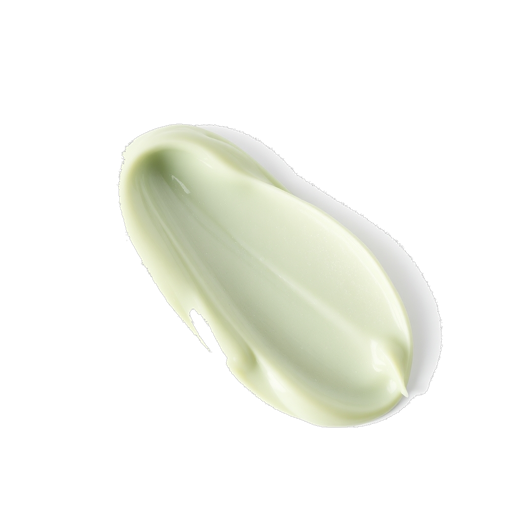
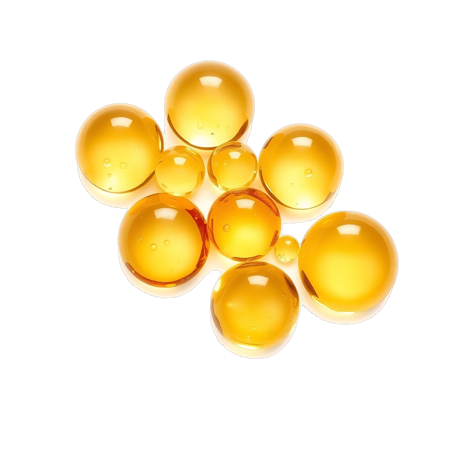
Deploy etymologie redesign mockup

Changed region(s): [[0.1522, 0.1217, 0.8826, 0.8217]]

diff --git a/brands/etymologie/fx.js b/brands/etymologie/fx.js
@@ -1,9 +1,7 @@
 /* redesign-mockup motion — dependency-free.
-   1) scroll-reveal: elements with .reveal rise + fade + un-rotateX into place
-      as they enter the viewport (all devices). Siblings stagger.
-   2) float parallax: elements with .float[data-speed] drift as you scroll
-      (desktop only). Pairs with the .float / @keyframes bob CSS.
-   Respects prefers-reduced-motion. */
+   scroll-reveal: elements with .reveal rise + fade + un-rotateX into place as they
+   enter the viewport (all devices). Siblings stagger. Respects prefers-reduced-motion.
+   (Floating .float elements are intentionally STATIC — no parallax/bob.) */
 (function () {
   var reduce = window.matchMedia('(prefers-reduced-motion:reduce)').matches;
 
@@ -30,31 +28,6 @@
     }
   }
 
-  /* ---- float parallax (desktop only) ---- */
-  if (reduce || window.matchMedia('(max-width:1000px)').matches) return;
-  var floats = [].slice.call(document.querySelectorAll('.float'));
-  if (!floats.length) return;
-  function base() {
-    var sy = window.pageYOffset || 0;
-    floats.forEach(function (f) {
-      var r = f.getBoundingClientRect();
-      f._b = r.top + r.height / 2 + sy;
-    });
-  }
-  function clamp(v, a, b) { return v < a ? a : v > b ? b : v; }
-  var ticking = false;
-  function update() {
-    var sy = window.pageYOffset || 0, vh = window.innerHeight;
-    floats.forEach(function (f) {
-      var rel = clamp((f._b - sy - vh / 2) / vh, -1.3, 1.3);
-      var sp = parseFloat(f.getAttribute('data-speed')) || 40;
-      f.style.transform = 'translateY(' + (rel * sp).toFixed(1) + 'px)';
-    });
-    ticking = false;
-  }
-  window.addEventListener('scroll', function () {
-    if (!ticking) { requestAnimationFrame(update); ticking = true; }
-  }, { passive: true });
-  window.addEventListener('resize', function () { base(); update(); });
-  base(); update();
+  /* floating elements are STATIC (Bruno's preference) — no parallax, no bob.
+     They keep a fixed rotation via CSS (.float img { transform: rotate(var(--rot)) }). */
 })();

diff --git a/brands/etymologie/styles.css b/brands/etymologie/styles.css
@@ -64,8 +64,7 @@ header{position:sticky;top:0;z-index:50;background:rgba(247,247,242,.94);backdro
 
 /* floating decorative elements (depth/wow) */
 .float{position:absolute;pointer-events:none;z-index:5;will-change:transform}
-.float img{display:block;width:100%;animation:bob 8s ease-in-out infinite;filter:drop-shadow(0 28px 22px rgba(28,28,28,.30)) drop-shadow(0 8px 8px rgba(28,28,28,.16))}
-@keyframes bob{0%,100%{transform:translateY(0) rotate(var(--rot,0deg))}50%{transform:translateY(-15px) rotate(var(--rot,0deg))}}
+.float img{display:block;width:100%;transform:rotate(var(--rot,0deg));filter:drop-shadow(0 28px 22px rgba(28,28,28,.30)) drop-shadow(0 8px 8px rgba(28,28,28,.16))}
 .float-a{width:190px;top:-44px;left:-40px;--rot:-7deg}
 .float-b{width:232px;top:-94px;right:-48px;--rot:12deg}
 .float-c{width:198px;bottom:-44px;left:-64px;--rot:6deg;z-index:6}
@@ -187,16 +186,32 @@ footer{background:var(--ink);color:#C7C5BE;padding:var(--sp-6) 0 var(--sp-4)}
 .foot-bottom{border-top:1px solid rgba(255,255,255,.12);margin-top:var(--sp-5);padding-top:var(--sp-4);display:flex;justify-content:space-between;gap:1rem;flex-wrap:wrap;font-size:.8rem;color:#928F88}
 
 @media(max-width:1000px){
-  .hero{grid-template-columns:1fr}.hero-img{min-height:46vh;order:-1}
+  /* full-bleed hero: image fills the screen, text overlaid on a scrim, CTA at bottom */
+  .hero{display:block;position:relative;min-height:86vh}
+  .hero-img{position:absolute;inset:0;min-height:0;order:0;background-position:center}
+  .hero-img::after{content:"";position:absolute;inset:0;background:linear-gradient(180deg,rgba(20,20,20,.22) 0%,rgba(20,20,20,.34) 46%,rgba(20,20,20,.84) 100%)}
+  .hero-copy{position:relative;z-index:2;min-height:86vh;justify-content:flex-end;padding:2rem 1.5rem 2.6rem;color:#F7F7F2}
+  .hero-copy h1{color:#fff}
+  .hero-copy .lede{color:#ECEAE4;max-width:none}
+  .hero-trust{color:#DAD8D1}
+  .hero-cta .btn-primary{background:#F7F7F2;color:var(--ink);border-color:#F7F7F2}
+  .hero-cta .btn-outline{color:#fff;border-color:rgba(255,255,255,.65)}
+  .hero-cta .btn-outline:hover{background:#fff;color:var(--ink)}
   .float{display:none}
   .grid{grid-template-columns:repeat(2,1fr)}.ritual-grid{grid-template-columns:1fr;gap:var(--sp-4)}
   .proof .row{grid-template-columns:1fr 1fr;gap:var(--sp-5)}
   .ba .inner,.rev-wrap,.band{grid-template-columns:1fr}.band-media{min-height:320px;order:-1}
-  .foot-grid{grid-template-columns:1fr 1fr}.nav-links{display:none}.nav{grid-template-columns:auto 1fr auto}.brand{justify-content:flex-start}
+  .foot-grid{grid-template-columns:1fr 1fr}
+  /* nav: logo left, cart right; drop secondary icon links + nav-links so nothing wraps */
+  .nav-links{display:none}
+  .nav{grid-template-columns:1fr auto;padding:.8rem var(--sp-4)}
+  .brand{justify-self:start;justify-content:flex-start}
+  .nav-icons a:not(.cart){display:none}
 }
 @media(max-width:640px){
   .grid{grid-template-columns:1fr 1fr}.section{padding:var(--sp-6) 0}.proof .row{grid-template-columns:1fr 1fr}
   .foot-grid{grid-template-columns:1fr}.news form{flex-direction:column}
+  .announce{font-size:.72rem;letter-spacing:.03em}.announce-extra{display:none}
 }
 @media(max-width:420px){
   .grid{grid-template-columns:1fr}

diff --git a/brands/etymologie/index.html b/brands/etymologie/index.html
@@ -12,7 +12,7 @@
 </head>
 <body>
 
-<div class="announce">Livraison gratuite dès 75 $ &nbsp;·&nbsp; <b>18 % de rabais sur votre première commande</b> &nbsp;·&nbsp; Formulé par une biochimiste, au Canada</div>
+<div class="announce"><b>18 % de rabais sur votre première commande</b><span class="announce-extra"> &nbsp;·&nbsp; Livraison gratuite dès 75 $ &nbsp;·&nbsp; Formulé par une biochimiste, au Canada</span></div>
 
 <header>
   <nav class="nav">